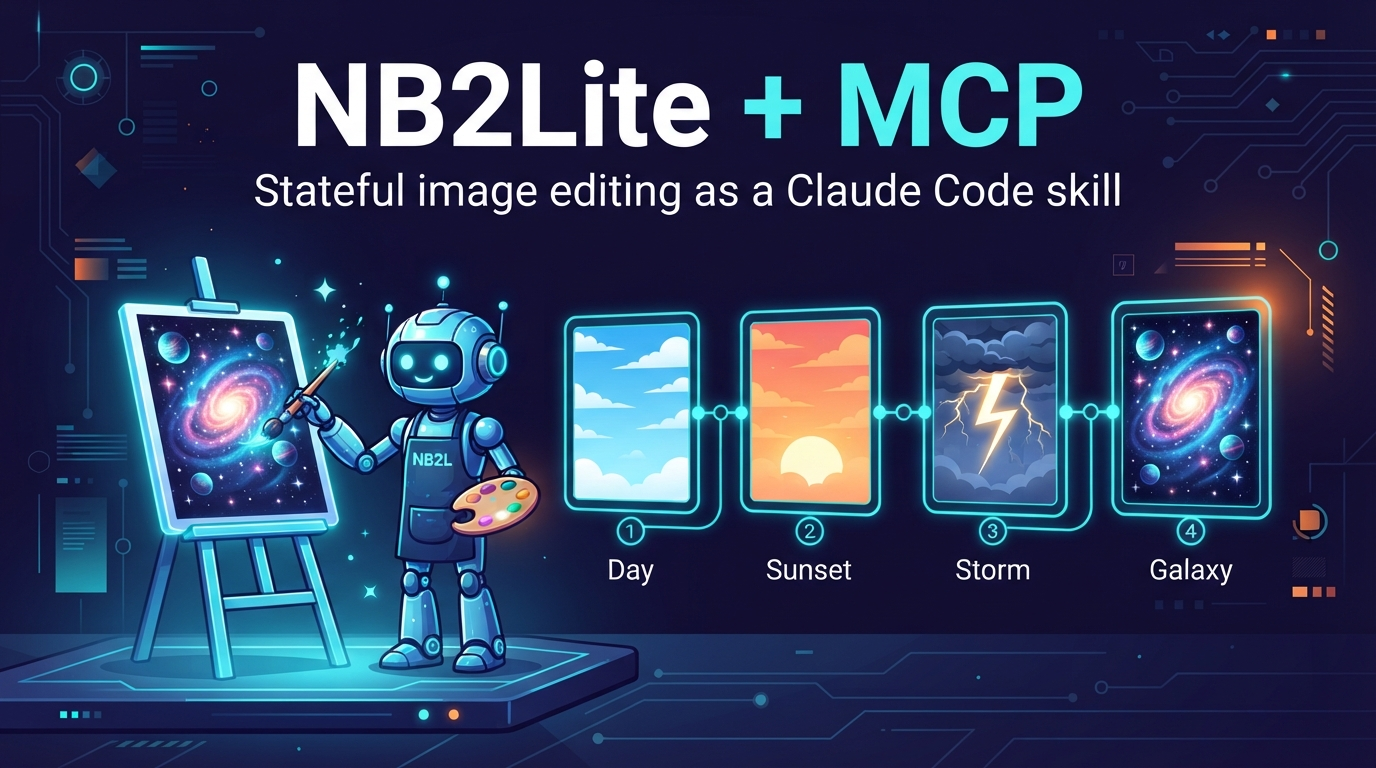
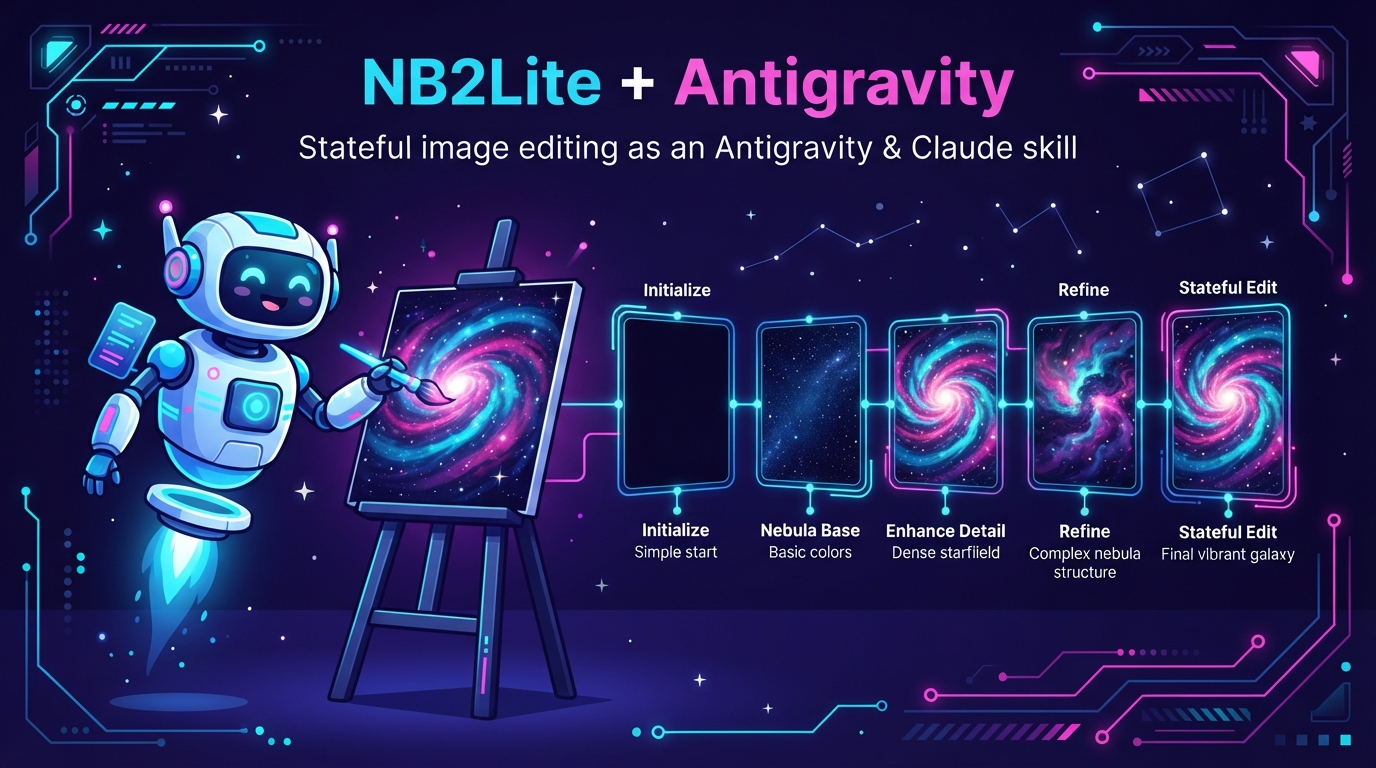
Update dev.to article with Antigravity skills and new dogfood header image

diff --git a/devto-article.md b/devto-article.md
@@ -1,12 +1,12 @@
 ---
-title: "Teaching Claude Code to Paint: A Stateful Image-Editing Skill Built on Gemini's Interactions API and MCP"
+title: "Teaching Antigravity & Claude Code to Paint: A Stateful Image-Editing Skill Built on Gemini's Interactions API and MCP"
 published: false
-description: "How nb2lite-skill-claude packages Google's gemini-3.1-flash-lite-image as a Claude Code skill + MCP server — with multi-turn stateful edits, an idiot-proof install guide, and a dogfooded cover image."
-tags: ai, claudecode, gemini, mcp
-cover_image: https://raw.githubusercontent.com/xbill9/nb2lite-skill-claude/main/devto-cover.jpg
+description: "How nb2lite-skill-agy packages Google's gemini-3.1-flash-lite-image as an Antigravity and Claude Code skill + MCP server — with multi-turn stateful edits, an idiot-proof install guide, and a dogfooded cover image."
+tags: ai, antigravity, claudecode, gemini, mcp
+cover_image: https://raw.githubusercontent.com/xbill9/nb2lite-skill-agy/main/devto-cover.jpg
 ---
 
-> **TL;DR:** [nb2lite-skill-claude](https://github.com/xbill9/nb2lite-skill-claude) wraps Google's `gemini-3.1-flash-lite-image` model (NB2Lite) in a tiny FastMCP server and packages it as a Claude Code skill. You type "generate an image of a cyberpunk kitchen" into Claude Code, and it just... does it. Then you say "add a neon RAMEN sign" and it edits *the same image* without re-prompting the whole scene. Oh, and the cover image of this article? Generated by the thing the article is about — dogfooding all the way down. More on that at the end.
+> **TL;DR:** [nb2lite-skill-agy](https://github.com/xbill9/nb2lite-skill-agy) wraps Google's `gemini-3.1-flash-lite-image` model (NB2Lite) in a tiny FastMCP server and packages it as a dual Antigravity & Claude Code skill. You type "generate an image of a cyberpunk kitchen" into your AI agent, and it just... does it. Then you say "add a neon RAMEN sign" and it edits *the same image* without re-prompting the whole scene. Oh, and the cover image of this article? Generated by the thing the article is about — dogfooding all the way down. More on that at the end.
 
 ## Background: why another image tool?
 
@@ -14,10 +14,10 @@ Most image-generation workflows are **stateless**. You send a prompt, you get pi
 
 Google's **NB2Lite** — the friendly nickname for `gemini-3.1-flash-lite-image` — takes a different approach. It's a high-efficiency image model with sub-2-second generations, solid text rendering in 25+ languages, and — the headline feature — support for the **stateful Interactions API**, which lets you iterate on an image across multiple turns while the model keeps the visual context server-side.
 
-This repo glues that capability into **Claude Code**, so your coding agent can generate and iteratively refine images as a natural part of a session. It ships as two things in one repo:
+This repo glues that capability into **Google Antigravity** and **Claude Code**, so your coding agent can generate and iteratively refine images as a natural part of a pair-programming session. It ships as two things in one repo:
 
 1. A **Model Context Protocol (MCP) server** (`nb2lite-agent`, a single-file FastMCP app in `server.py`) exposing exactly four tools.
-2. A **Claude Code skill** (`nb2lite-image`) that teaches Claude *when* and *how* to use those tools well.
+2. A **Skill definition** (`nb2lite-image`) that teaches AI agents *when* and *how* to use those tools well.
 
 ## The Interactions API: images with a memory
 
@@ -45,7 +45,7 @@ A few practical details the server handles for you:
 
 ## What is MCP, in one minute
 
-The **Model Context Protocol** is an open standard for connecting AI assistants to tools and data. Before it, giving a model access to some service meant writing a bespoke integration for each assistant — N assistants × M services, everyone reinventing the same plumbing. MCP collapses that: a tool author writes one **MCP server** that exposes typed tools, and any MCP-capable client (Claude Code, Claude Desktop, and a growing list of others) can discover and call them with no per-client glue code.
+The **Model Context Protocol** is an open standard for connecting AI assistants to tools and data. Before it, giving a model access to some service meant writing a bespoke integration for each assistant — N assistants × M services, everyone reinventing the same plumbing. MCP collapses that: a tool author writes one **MCP server** that exposes typed tools, and any MCP-capable client (Antigravity, Claude Code, Claude Desktop, and a growing list of others) can discover and call them with no per-client glue code.
 
 An MCP server is usually a small local process that speaks JSON-RPC over stdio. The client launches it, asks "what tools do you have?", and from then on the model can call them like functions.
 
@@ -60,9 +60,9 @@ The `nb2lite-agent` server exposes exactly four:
 
 Images land on disk as `gen_<timestamp>_<uuid8>.jpg` (or `edit_`/`edit_local_` prefixed) — the UUID suffix keeps concurrent generations from clobbering each other. Errors come back as `🔴 ...` text strings rather than protocol errors, so the agent can read and react to them.
 
-## And what's a Claude Code *skill*?
+## And what's an Agent *skill*?
 
-If MCP is the *hands* (the tools Claude can physically call), a **skill** is the *muscle memory* — a markdown file (`SKILL.md`) plus bundled resources that load into Claude's context and teach it the workflow: which tool to reach for, in what order, with which constraints.
+If MCP is the *hands* (the tools an agent can physically call), a **skill** is the *muscle memory* — a markdown file (`SKILL.md`) plus bundled resources that load into the agent's context and teach it the workflow: which tool to reach for, in what order, with which constraints.
 
 For `nb2lite-image`, the skill encodes things like:
 
@@ -75,31 +75,31 @@ The skill also bundles the MCP server itself (`mcp/server.py`), its requirements
 
 ## Installing it: the "I just want it to work" edition
 
-You need three things: **Python 3.10+**, **Claude Code**, and a **Gemini API key** (free from [Google AI Studio](https://aistudio.google.com/)). Pick *one* of the paths below.
+You need three things: **Python 3.10+**, **Antigravity or Claude Code**, and a **Gemini API key** (free from [Google AI Studio](https://aistudio.google.com/)). Pick *one* of the paths below.
 
 ### Path A: The plugin marketplace (fewest keystrokes)
 
-Inside Claude Code, type:
+Inside your agent CLI, type:
 
 ```
-/plugin marketplace add xbill9/nb2lite-skill-claude
-/plugin install nb2lite-image@nb2lite-skill-claude
+/plugin marketplace add xbill9/nb2lite-skill-agy
+/plugin install nb2lite-image@nb2lite-skill-agy
 ```
 
-This installs the skill **and** auto-registers the MCP server. The plugin manifest carries no API key (as it should!) — the server reads `GEMINI_API_KEY` from your environment, so make sure it's exported before launching Claude Code.
+This installs the skill **and** auto-registers the MCP server. The plugin manifest carries no API key (as it should!) — the server reads `GEMINI_API_KEY` from your environment, so make sure it's exported before launching your agent CLI.
 
 ### Path B: Clone and bootstrap (this repo)
 
 ```bash
 # 1. Get the code
-git clone https://github.com/xbill9/nb2lite-skill-claude.git
-cd nb2lite-skill-claude
+git clone https://github.com/xbill9/nb2lite-skill-agy.git
+cd nb2lite-skill-agy
 
 # 2. One-command setup: installs deps, registers the MCP server
 #    in .mcp.json, and prompts for your API key (stored in ~/gemini.key)
 ./init.sh
 
-# 3. Restart Claude Code in this directory and approve the server
+# 3. Restart your agent in this directory and approve the server
 #    when prompted. Verify with:
 /mcp        # should list nb2lite-agent
 ```
@@ -114,14 +114,14 @@ From a clone of the repo:
 make init TARGET=/path/to/your/project ARGS='--output-dir ./images'
 ```
 
-This copies the skill into `<project>/.claude/skills/nb2lite-image/` and writes the `nb2lite-agent` entry into that project's `.mcp.json`. It reuses `~/gemini.key` if you've set one up. Restart Claude Code in the target project, approve the server, done.
+This copies the skill into `<project>/.gemini/antigravity-cli/skills/nb2lite-image/` (or `.claude/skills/nb2lite-image/`) and writes the `nb2lite-agent` entry into that project's `.mcp.json`. It reuses `~/gemini.key` if you've set one up. Restart your agent in the target project, approve the server, done.
 
 ### Path D: Docker (nothing on the host but Docker)
 
 The server is published as [`xbill9/nb2lite-agent`](https://hub.docker.com/r/xbill9/nb2lite-agent):
 
 ```bash
-claude mcp add nb2lite-agent --env GEMINI_API_KEY="$(cat ~/gemini.key)" -- \
+antigravity mcp add nb2lite-agent --env GEMINI_API_KEY="$(cat ~/gemini.key)" -- \
   docker run --rm -i -e GEMINI_API_KEY -v "$PWD:$PWD" -w "$PWD" xbill9/nb2lite-agent
 ```
 
@@ -129,9 +129,9 @@ The `-v "$PWD:$PWD" -w "$PWD"` mount matters: the server saves images to disk an
 
 ### Troubleshooting, the whole guide
 
-- `/mcp` doesn't list the server → restart Claude Code in the project directory.
+- `/mcp` doesn't list the server → restart your agent CLI in the project directory.
 - Tools return `🔴 GEMINI_API_KEY is not set` → run `source set_env.sh` (or export the key) and restart.
-- Anything else → ask Claude to call `get_help`; it reports the live config.
+- Anything else → ask your agent to call `get_help`; it reports the live config.
 
 ## Examples: a session in practice
 
@@ -139,7 +139,7 @@ Once installed, you talk to it in plain English. A real flow looks like:
 
 **You:** *"Generate a cozy cabin in a snowy forest at dusk, 16:9."*
 
-Claude calls:
+The agent calls:
 
 ```python
 generate_image(
@@ -186,42 +186,37 @@ If the term is new to you: **"eating your own dog food"** means using your own p
 
 This repo dogfoods itself at every layer:
 
-- The **skill is active inside its own repository** — open Claude Code in a clone and the `nb2lite-image` skill and `nb2lite-agent` server are already wired up, so every development session doubles as an integration test.
+- The **skill is active inside its own repository** — open Google Antigravity or Claude Code in a clone and the `nb2lite-image` skill and `nb2lite-agent` server are already wired up, so every development session doubles as an integration test.
 - The **integration tests** (`make test`) drive the same four MCP tools an end user would, against the live API.
-- And now, **the cover image of this article was generated by the exact skill the article describes**, from inside a Claude Code session in this repo. One tool call, first attempt, no retouching:
+- And now, **the cover image of this article was generated by the exact skill the article describes**, from inside an Antigravity session in this repo. One tool call, live generation, no retouching:
 
 ```python
 generate_image(
-    prompt="A wide tech blog cover illustration: a friendly robot artist "
-           "painting a glowing galaxy on an easel, while a chain of connected "
-           "frames behind it shows the same picture evolving step by step "
-           "(day sky, then sunset, then storm with lightning). Flat vector "
-           "style, deep indigo background, neon cyan and orange accents. "
-           "Title text 'NB2Lite + MCP', subtitle 'Stateful image editing "
-           "as a Claude Code skill'. Crisp, accurate lettering.",
+    prompt="A wide tech blog cover illustration: a friendly AI agent with glowing antigravity elements floating alongside an easel, painting a vibrant galaxy, while a chain of connected frames behind it shows the same picture evolving step by step. Flat vector style, deep indigo background, neon cyan and magenta accents. Title text 'NB2Lite + Antigravity', subtitle 'Stateful image editing as an Antigravity & Claude skill'. Crisp, accurate lettering.",
     aspect_ratio="16:9",
     thinking_level="high",
 )
 # 🟢 Image successfully saved!
-# • Saved to: gen_1784759177_cbab8b65.jpg
-# • Interaction ID: v1_ChdpRU5hb2o3SWMzV2pNY1AtUFgy...
+# • Saved to: /home/xbill/nb2lite-skill-agy/gen_1784832091_d71439ca.jpg
+# • Interaction ID: v1_ChdXbUJpYXB5aEZZYkotOFlQeC1UcG1BNBIXV21CaWFweWhGWWJKLThZUHgtVHBtQTQ
 ```
 
-(That exact output is committed to the repo as [`devto-cover.jpg`](https://github.com/xbill9/nb2lite-skill-claude/blob/main/devto-cover.jpg), receipts and all.)
+(That exact output is committed to the repo as [`devto-cover.jpg`](https://github.com/xbill9/nb2lite-skill-agy/blob/main/devto-cover.jpg), receipts and all.)
 
 Worth noticing:
 
-- **The text rendered correctly.** "NB2Lite + MCP" and the full subtitle came out crisp and typo-free — that's what `thinking_level: "high"` buys you on text-heavy layouts.
-- **The model illustrated its own pitch.** The chain of frames (day → sunset → storm → galaxy) *is* the stateful edit loop — the image explains the Interactions API better than a diagram I'd have drawn by hand.
-- **If I wanted the accent color changed,** I wouldn't regenerate — I'd `edit_image` with that interaction ID and say "make the orange accents magenta." That's the whole point.
+- **The text rendered correctly.** "NB2Lite + Antigravity" and the full subtitle came out crisp and typo-free — that's what `thinking_level: "high"` buys you on text-heavy layouts.
+- **The model illustrated its own pitch.** The chain of frames (Initialize → Nebula Base → Enhance Detail → Refine → Stateful Edit) *is* the stateful edit loop — the image explains the Interactions API better than a diagram I'd have drawn by hand.
+- **If I wanted the accent color changed,** I wouldn't regenerate — I'd `edit_image` with that interaction ID and say "make the cyan accents emerald." That's the whole point.
 
 Dogfooding is the cheapest credibility there is: no cherry-picked gallery, no "results may vary" fine print — the tool's real output is literally the first thing you saw when you opened this article. If the skill had flubbed the lettering or mangled the layout, you'd be looking at the evidence right now. Instead, the article ships with its own proof baked into the header.
 
 ## Links
 
-- **Repo:** [github.com/xbill9/nb2lite-skill-claude](https://github.com/xbill9/nb2lite-skill-claude) (Apache-2.0)
+- **Repo:** [github.com/xbill9/nb2lite-skill-agy](https://github.com/xbill9/nb2lite-skill-agy) (Apache-2.0)
 - **Docker image:** [hub.docker.com/r/xbill9/nb2lite-agent](https://hub.docker.com/r/xbill9/nb2lite-agent)
 - **Interactions API reference:** [ai.google.dev/api/interactions-api](https://ai.google.dev/api/interactions-api)
 - **Model Context Protocol:** [modelcontextprotocol.io](https://modelcontextprotocol.io)
 
-*This is a third-party community project, not affiliated with or endorsed by Anthropic or Google. Bring your own Gemini API key — and remember generations are billable, so draft on `low` and save `high` for the money shot.*
+*This is a third-party community project, not affiliated with or endorsed by Google or Anthropic. Bring your own Gemini API key — and remember generations are billable, so draft on `low` and save `high` for the money shot.*
+
